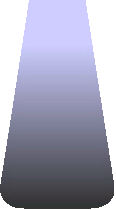
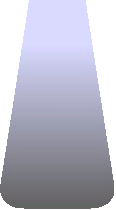
some more victory stuff
also made double kills shading better lmao

diff --git a/src/character/bf.c b/src/character/bf.c
@@ -561,12 +561,14 @@ void Char_BF_Tick(Character *character)
 	Animatable_Animate(&character->animatable, (void*)this, Char_BF_SetFrame);
 	if (stage.lights != 1)
 	{
-		if (((stage.stage_id != StageId_Defeat) && (stage.stage_id != StageId_DoubleKill)) || ((stage.stage_id == StageId_Defeat) && ((stage.song_step >= 1168) && (stage.song_step <= 1439))))
+		if (((stage.stage_id != StageId_Defeat) && (stage.stage_id != StageId_DoubleKill) && (stage.stage_id != StageId_Turbulence) && (stage.stage_id != StageId_Victory)) || ((stage.stage_id == StageId_Defeat) && ((stage.song_step >= 1168) && (stage.song_step <= 1439))))
 			Character_Draw(character, &this->tex, &char_bf_frame[this->frame]);
 		else if ((stage.stage_id == StageId_DoubleKill) && ((stage.song_step <= 3407)))
-			Character_DrawCol(character, &this->tex, &char_bf_frame[this->frame], 128, 125, 126);
+			Character_DrawCol(character, &this->tex, &char_bf_frame[this->frame], 150, 150, 150);
 		else if (stage.stage_id == StageId_Turbulence)
-			Character_DrawRotate(character, &this->tex, &char_bf_frame[this->frame], 200);
+			Character_DrawRotate(character, &this->tex, &char_bf_frame[this->frame], 192);
+		else if (stage.stage_id == StageId_Victory)
+			Character_DrawCol(character, &this->tex, &char_bf_frame[this->frame], 175, 175, 175);
 	}
 }
 

diff --git a/src/stage/victory.c b/src/stage/victory.c
@@ -58,20 +58,20 @@ void Back_Victory_DrawFG(StageBack *back)
 	
 	RECT lights_src = {  0,  0,114,209};
 	RECT_FIXED light1_dst = {
-		FIXED_DEC(0 - screen.SCREEN_WIDEOADD2,1) - fx,
-		FIXED_DEC(0,1) - fy,
+		FIXED_DEC(61 - screen.SCREEN_WIDEOADD2,1) - fx,
+		FIXED_DEC(-45,1) - fy,
 		FIXED_DEC(143 + screen.SCREEN_WIDEOADD,1),
 		FIXED_DEC(261,1)
 	};
 	RECT_FIXED light2_dst = {
-		FIXED_DEC(0+252 - screen.SCREEN_WIDEOADD2,1) - fx,
-		FIXED_DEC(0,1) - fy,
+		FIXED_DEC(61+252 - screen.SCREEN_WIDEOADD2,1) - fx,
+		FIXED_DEC(-45,1) - fy,
 		FIXED_DEC(143 + screen.SCREEN_WIDEOADD,1),
 		FIXED_DEC(261,1)
 	};
 	
 	Debug_StageMoveDebug(&light1_dst, 10, fx, fy);
-	Debug_StageMoveDebug(&light2_dst, 10, fx, fy);
+	Debug_StageMoveDebug(&light2_dst, 15, fx, fy);
 	Stage_BlendTex(&this->tex_back2, &lights_src, &light1_dst, stage.camera.bzoom, 1);
 	Stage_BlendTex(&this->tex_back2, &lights_src, &light2_dst, stage.camera.bzoom, 1);
 }

diff --git a/src/stage.c b/src/stage.c
@@ -3016,6 +3016,10 @@ void Stage_Tick(void)
 					stage.player_state[1].character = Stage_ChangeChars(stage.player_state[1].character, stage.player2);
 				stage.player_state[1].character2 = NULL;
 				stage.player_state[1].charactersecond = NULL;
+				stage.player_state[0].character = Stage_ChangeChars(stage.player_state[0].character, stage.player);
+				if (stage.camswitch != 3)
+					stage.player_state[0].character2 = Stage_ChangeChars(stage.player_state[0].character, stage.player2);
+				stage.player_state[0].charactersecond = NULL;
 			}
 			else
 			{

diff --git a/src/character/whitedk.c b/src/character/whitedk.c
@@ -142,7 +142,7 @@ void Char_WhiteDK_Tick(Character *character)
 	//Animate and draw
 	Animatable_Animate(&character->animatable, (void*)this, Char_WhiteDK_SetFrame);
 	if (stage.song_step <= 3407)
-		Character_DrawCol(character, &this->tex, &char_whitedk_frame[this->frame], 128, 128, 128);
+		Character_DrawCol(character, &this->tex, &char_whitedk_frame[this->frame], 150, 150, 150);
 }
 
 void Char_WhiteDK_SetAnim(Character *character, u8 anim)

diff --git a/src/character/blackdk.c b/src/character/blackdk.c
@@ -159,7 +159,7 @@ void Char_BlackDK_Tick(Character *character)
 	if (stage.song_step >= 3408)
 		Character_DrawCol(character, &this->tex, &char_blackdk_frame[this->frame], 200, 128, 128);
 	else
-		Character_DrawCol(character, &this->tex, &char_blackdk_frame[this->frame], 128, 126, 128);
+		Character_DrawCol(character, &this->tex, &char_blackdk_frame[this->frame], 150, 150, 150);
 }
 
 void Char_BlackDK_SetAnim(Character *character, u8 anim)

diff --git a/src/stagedef_disc1.h b/src/stagedef_disc1.h
@@ -506,7 +506,7 @@
 	},
 	{ //StageId_Victory (Victory)
 		//Characters
-		{Char_BF_New,    FIXED_DEC(60,1),  FIXED_DEC(100,1)},
+		{Char_BF_New,    FIXED_DEC(388,1),  FIXED_DEC(176,1)},
 		{Char_Red_New, FIXED_DEC(-120,1),  FIXED_DEC(100,1)},
 		{Char_Warchief_New, FIXED_DEC(-120,1),  FIXED_DEC(100,1)},
 		{Char_Jelqer_New, FIXED_DEC(-120,1),  FIXED_DEC(100,1)},
